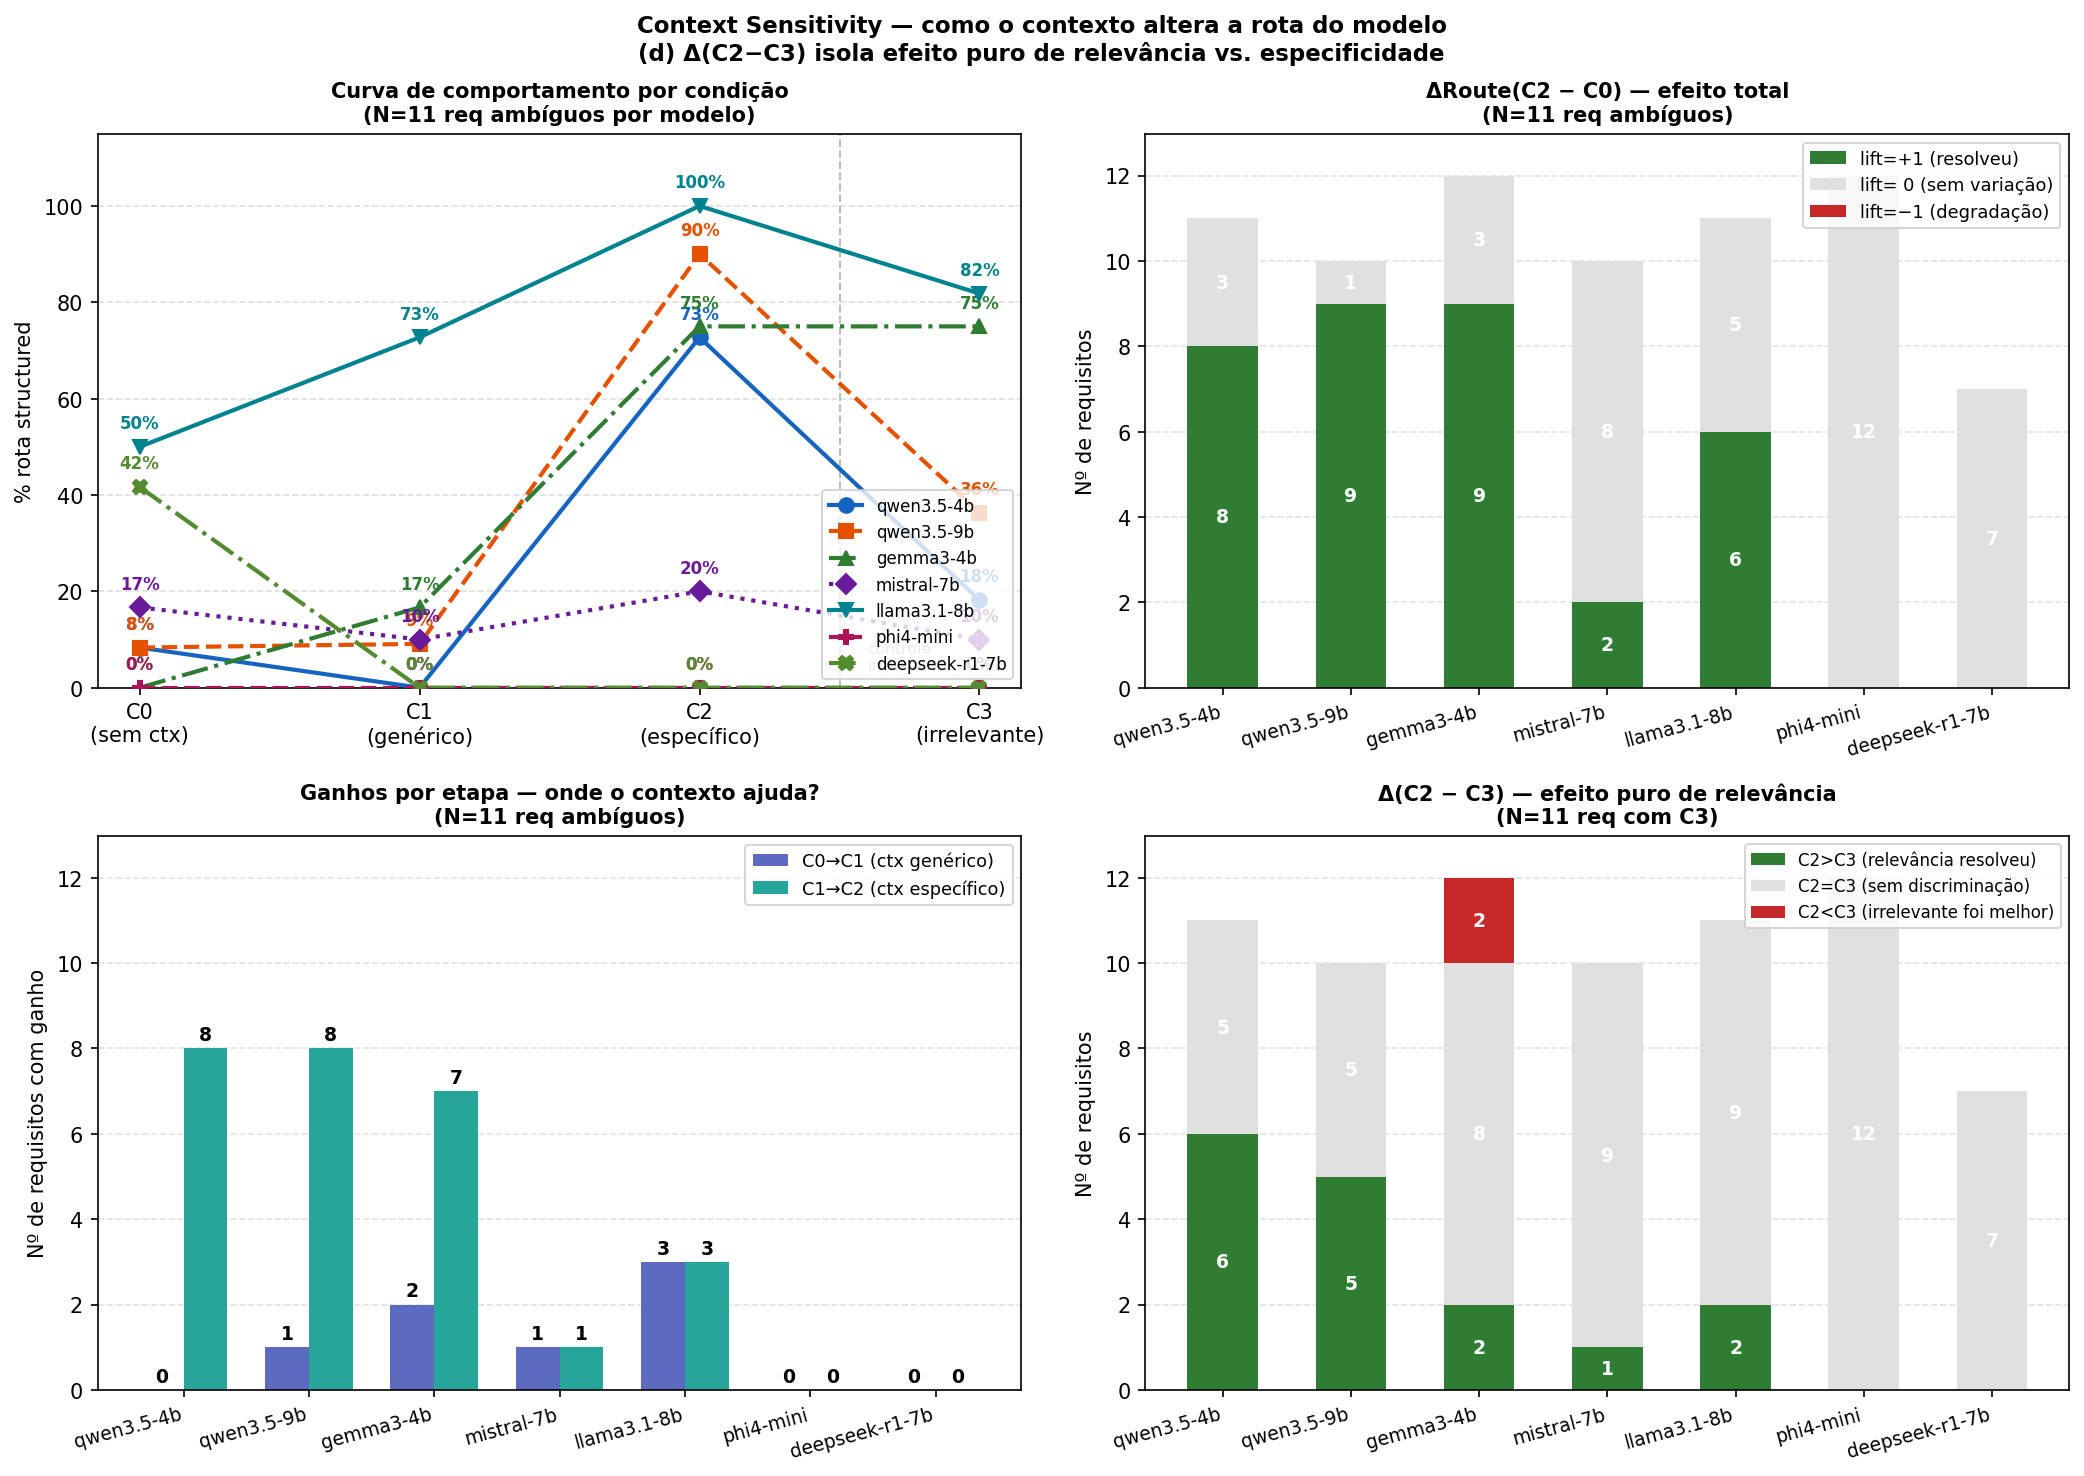
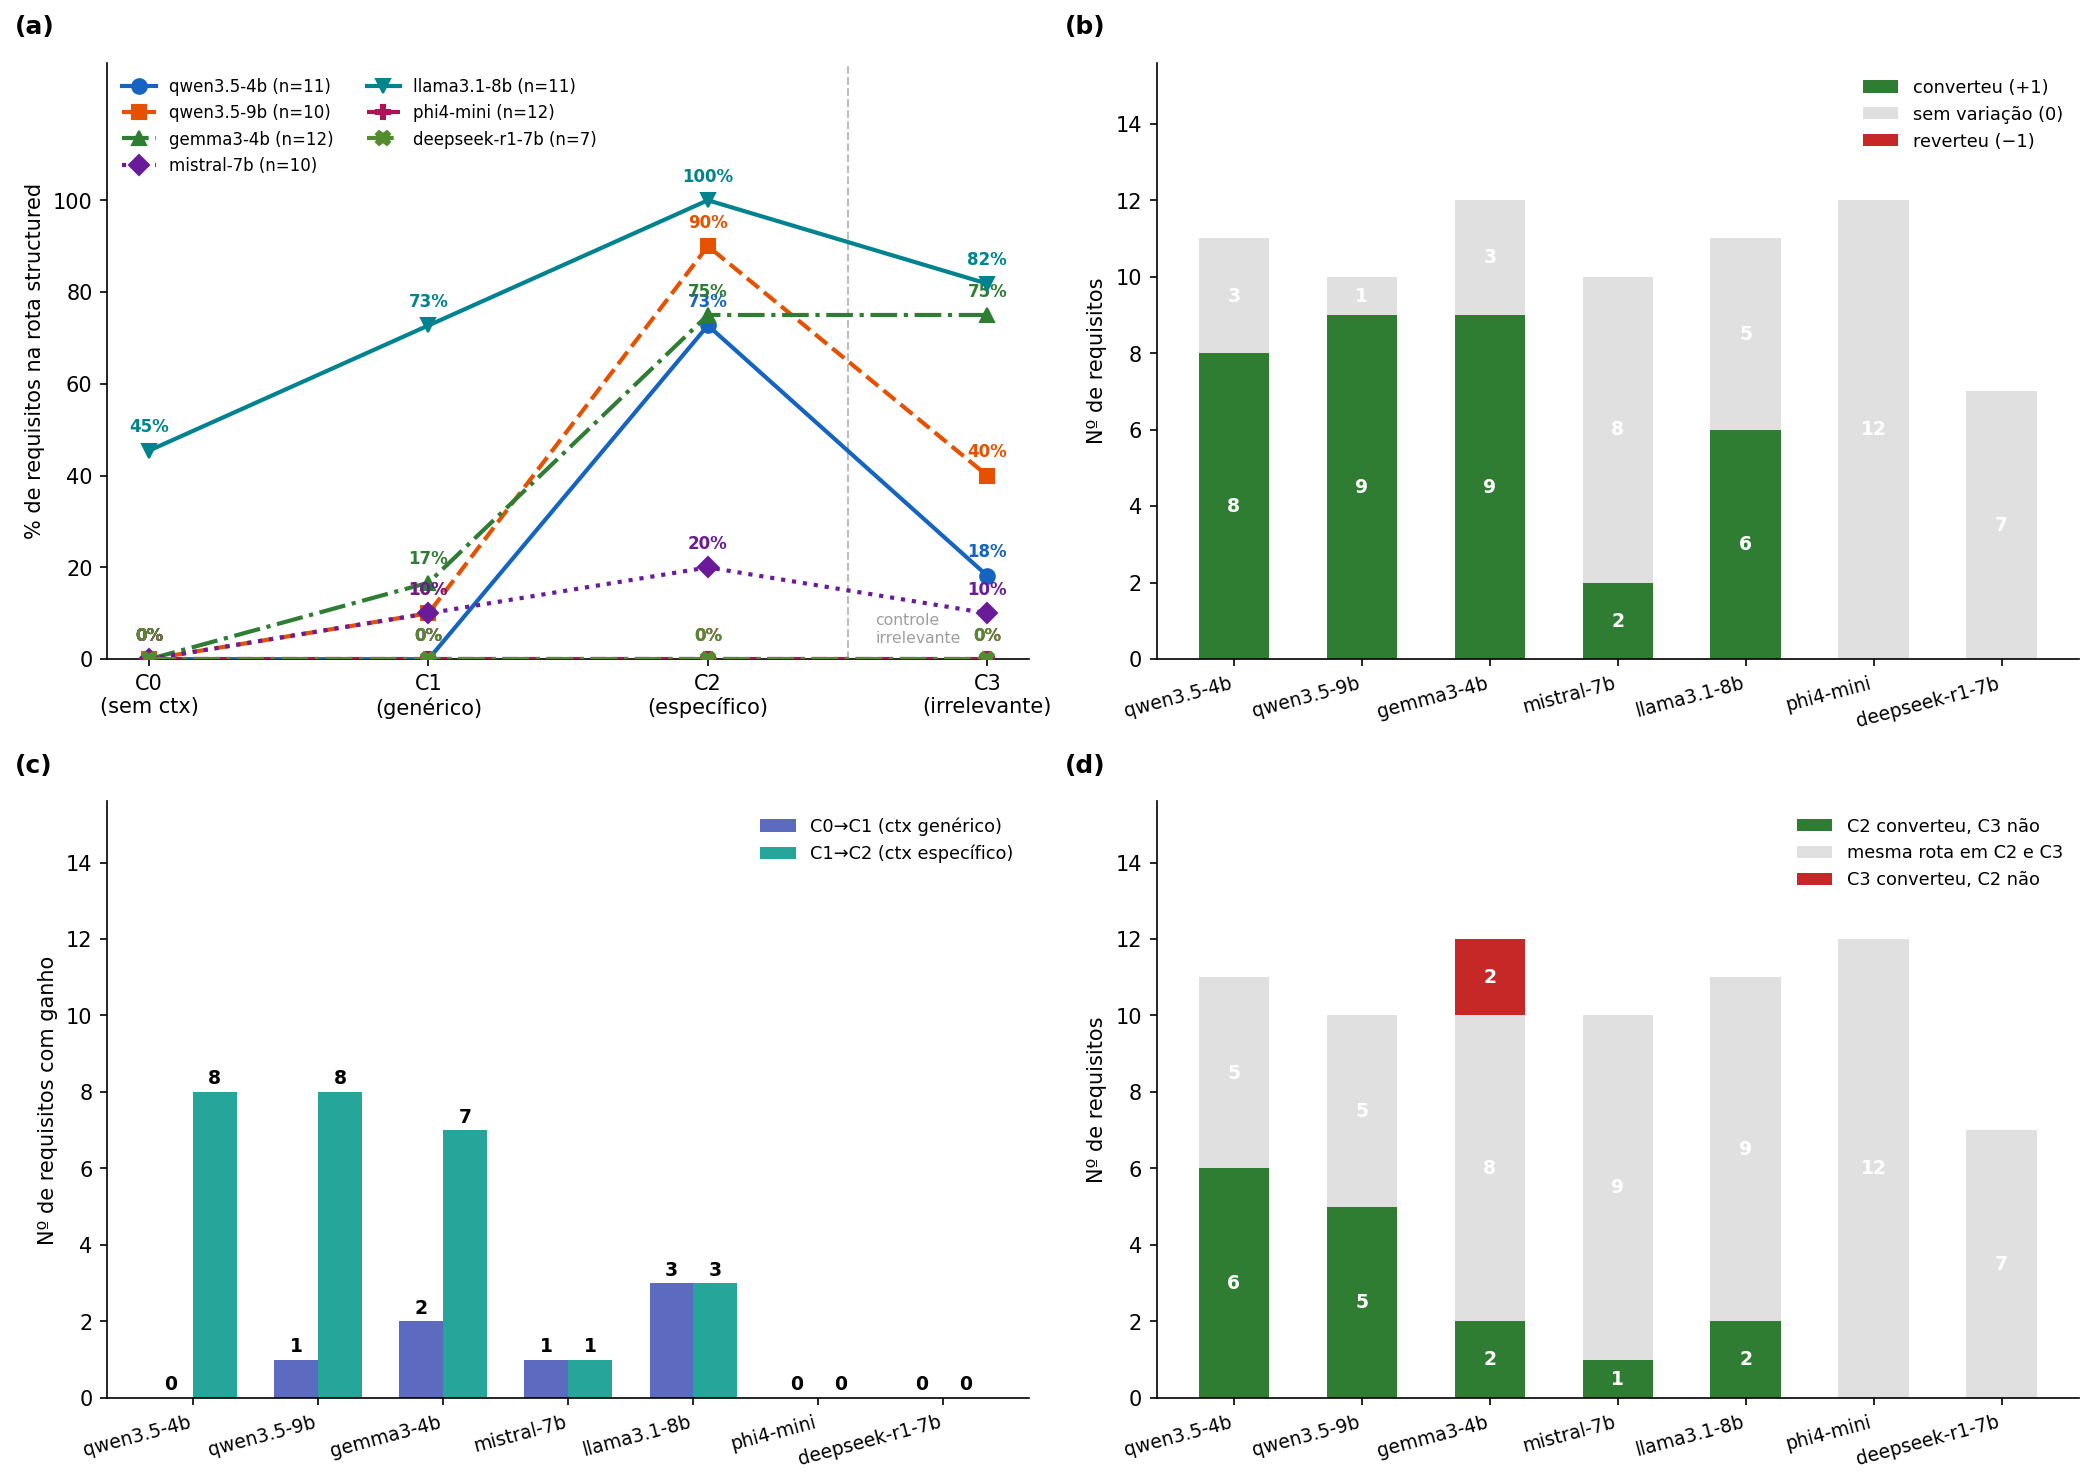
Corrige a base da Figura 3 e remove títulos internos e grade das Figuras 2 a 4
O painel (a) de context_lift__route_delta usava evaluation_results.csv,
de modo que os falsos negativos de C0 entravam como rota structured e
C1 a C3 só tinham requisitos detectados. Passa a usar context_lift.csv,
a mesma base da Tabela 2, com o n de cada modelo na legenda.

As três figuras perdem o título interno; a Figura 3 perde a grade e as
bordas superior e direita, ganha rótulos (a) a (d) e legendas que não
sugerem correção da resolução; a Figura 4 passa a rotular os tipos em
português. chart_context_lift deixa de receber df.

diff --git a/Orchestrator/analysis/generate_charts.py b/Orchestrator/analysis/generate_charts.py
@@ -521,11 +521,17 @@ def _stacked_lift(ax, x, width, pos, zero, neg, label_pos, label_zero, label_neg
                     str(val), ha='center', va='center', fontsize=9,
                     color='white', fontweight='bold')
     ax.set_ylim(0, y_max)
-    ax.yaxis.grid(True, linestyle='--', alpha=0.35)
     ax.set_axisbelow(True)
 
 
-def chart_context_lift(df: pd.DataFrame, df_lift: pd.DataFrame, out_dir: Path):
+def _open_axes(ax, letter: str):
+    """Sem grade nem borda superior/direita; rótulo (a)–(d) no lugar do título."""
+    ax.spines[['top', 'right']].set_visible(False)
+    ax.text(-0.10, 1.04, letter, transform=ax.transAxes,
+            fontsize=12, fontweight='bold', va='bottom')
+
+
+def chart_context_lift(df_lift: pd.DataFrame, out_dir: Path):
     """Layout 2×2 — Context Sensitivity (apenas req com expected_has_ambiguity=True).
 
       (a) top-left  — Line chart: % structured por condição C0→C1→C2→C3
@@ -534,7 +540,9 @@ def chart_context_lift(df: pd.DataFrame, df_lift: pd.DataFrame, out_dir: Path):
       (d) bot-right — Delta_c2_c3: efeito puro de relevância (quando C3 presente)
 
     Narrativa: curva geral (a) → efeito agregado (b) → onde acontece (c) → é legítimo? (d)
-    Escala Y compartilhada entre (b), (c) e (d) = N req ambíguos.
+    Todos os painéis usam a mesma base da Tabela 2: os requisitos de Cat-01 a Cat-04
+    detectados em C0 (linhas de context_lift.csv), sem os falsos negativos, que não
+    são executados em C1–C3. O n de cada modelo aparece na legenda de (a).
     """
     df_amb = df_lift[df_lift['expected_has_ambiguity'].astype(str) == 'True'].copy()
 
@@ -544,8 +552,8 @@ def chart_context_lift(df: pd.DataFrame, df_lift: pd.DataFrame, out_dir: Path):
 
     runs   = sorted(df_lift['run'].unique())
     lbls   = _model_labels(runs)
-    n      = len(df_amb[df_amb['run'] == runs[0]])
-    y_max  = n * 1.18
+    n_run  = {r: len(df_amb[df_amb['run'] == r]) for r in runs}
+    y_max  = max(n_run.values()) * 1.3
     has_c3 = 'lift_c3_c0' in df_amb.columns and df_amb['lift_c3_c0'].notna().any()
 
     fig, axes = plt.subplots(2, 2, figsize=(14, 10))
@@ -556,20 +564,16 @@ def chart_context_lift(df: pd.DataFrame, df_lift: pd.DataFrame, out_dir: Path):
     width = 0.55
 
     # ── (a) Line chart — % structured nos req ambíguos por condição ──────────
-    df_amb_full = df[df['expected_has_ambiguity'].astype(str) == 'True'].copy() \
-        if 'expected_has_ambiguity' in df.columns else pd.DataFrame()
-
-    ctxs       = [c for c in CTX_ORDER if c in df_amb_full['context'].values] \
-        if not df_amb_full.empty else ['C0', 'C1', 'C2']
+    ctxs       = [c for c in CTX_ORDER if f'structured_{c.lower()}' in df_amb.columns]
     ctx_labels = {'C0': 'C0\n(sem ctx)', 'C1': 'C1\n(genérico)',
                   'C2': 'C2\n(específico)', 'C3': 'C3\n(irrelevante)'}
     x_labels   = [ctx_labels.get(c, c) for c in ctxs]
 
     for run, color, ls, mk in zip(runs, MODEL_PALETTE, MODEL_LINES, MODEL_MARKERS):
-        sub  = df_amb_full[df_amb_full['run'] == run] if not df_amb_full.empty else pd.DataFrame()
-        vals = [_pct(sub[sub['context'] == ctx]['route_structured']) for ctx in ctxs]
+        sub  = df_amb[df_amb['run'] == run]
+        vals = [_pct(sub[f'structured_{ctx.lower()}']) for ctx in ctxs]
         ax_line.plot(x_labels, vals, linestyle=ls, marker=mk, linewidth=2, color=color,
-                     label=lbls[run], markersize=7, zorder=3)
+                     label=f'{lbls[run]} (n={n_run[run]})', markersize=7, zorder=3)
         for xlbl, val in zip(x_labels, vals):
             if not math.isnan(val):
                 ax_line.annotate(f'{val:.0f}%', (xlbl, val),
@@ -580,15 +584,12 @@ def chart_context_lift(df: pd.DataFrame, df_lift: pd.DataFrame, out_dir: Path):
         ax_line.axvline(x=2.5, color='#bdbdbd', linewidth=1, linestyle='--', zorder=1)
         ax_line.text(2.6, 3, 'controle\nirrelevante', fontsize=7.5, color='#9e9e9e', va='bottom')
 
-    ax_line.set_ylim(0, 115)
-    ax_line.yaxis.grid(True, linestyle='--', alpha=0.4)
-    ax_line.set_axisbelow(True)
-    ax_line.set_ylabel('% rota structured', fontsize=10)
-    ax_line.set_title(f'Curva de comportamento por condição\n(N={n} req ambíguos por modelo)',
-                      fontsize=10, fontweight='bold')
+    ax_line.set_ylim(0, 130)
+    ax_line.set_yticks(range(0, 101, 20))
+    ax_line.set_ylabel('% de requisitos na rota structured', fontsize=10)
     handles, labels = ax_line.get_legend_handles_labels()
-    ax_line.legend(handles, labels, fontsize=8, loc='lower right',
-                   ncol=max(1, len(runs) // 4))
+    ax_line.legend(handles, labels, fontsize=8, loc='upper left', ncol=2, frameon=False)
+    _open_axes(ax_line, '(a)')
 
     # ── (b) Stacked bar — ΔRoute(C2−C0) ─────────────────────────────────────
     lift_pos  = [len(df_amb[(df_amb['run'] == r) & (df_amb['lift_c2_c0'] == 1)])  for r in runs]
@@ -596,13 +597,12 @@ def chart_context_lift(df: pd.DataFrame, df_lift: pd.DataFrame, out_dir: Path):
     lift_neg  = [len(df_amb[(df_amb['run'] == r) & (df_amb['lift_c2_c0'] == -1)]) for r in runs]
 
     _stacked_lift(ax_lift, x, width, lift_pos, lift_zero, lift_neg,
-                  'lift=+1 (resolveu)', 'lift= 0 (sem variação)', 'lift=−1 (degradação)', y_max)
-    ax_lift.set_title(f'ΔRoute(C2 − C0) — efeito total\n(N={n} req ambíguos)',
-                      fontsize=10, fontweight='bold')
+                  'converteu (+1)', 'sem variação (0)', 'reverteu (−1)', y_max)
+    _open_axes(ax_lift, '(b)')
     ax_lift.set_xticks(x)
     ax_lift.set_xticklabels([lbls[r] for r in runs], fontsize=9, rotation=15, ha='right')
     ax_lift.set_ylabel('Nº de requisitos', fontsize=10)
-    ax_lift.legend(fontsize=8.5, loc='upper right')
+    ax_lift.legend(fontsize=8.5, loc='upper right', frameon=False)
 
     # ── (c) Delta bars — ganhos por etapa ────────────────────────────────────
     width_s  = 0.35
@@ -628,46 +628,35 @@ def chart_context_lift(df: pd.DataFrame, df_lift: pd.DataFrame, out_dir: Path):
             ax_stage.text(x[i] + width_s / 2, -0.3, f'−{l12}',
                           ha='center', va='top', fontsize=8, color=LIFT_NEG_COLOR)
 
-    ax_stage.set_title(f'Ganhos por etapa — onde o contexto ajuda?\n(N={n} req ambíguos)',
-                       fontsize=10, fontweight='bold')
+    _open_axes(ax_stage, '(c)')
     ax_stage.set_xticks(x)
     ax_stage.set_xticklabels([lbls[r] for r in runs], fontsize=9, rotation=15, ha='right')
     ax_stage.set_ylabel('Nº de requisitos com ganho', fontsize=10)
     ax_stage.set_ylim(0, y_max)
-    ax_stage.yaxis.grid(True, linestyle='--', alpha=0.35)
     ax_stage.set_axisbelow(True)
-    ax_stage.legend(fontsize=8.5, loc='upper right')
+    ax_stage.legend(fontsize=8.5, loc='upper right', frameon=False)
 
     # ── (d) Delta_c2_c3 — efeito puro de relevância ──────────────────────────
     if has_c3:
         df_c3   = df_amb[df_amb['lift_c3_c0'].notna()]
         runs_c3 = [r for r in runs if len(df_c3[df_c3['run'] == r]) > 0]
         x_c3    = np.arange(len(runs_c3))
-        n_c3    = len(df_c3[df_c3['run'] == runs_c3[0]]) if runs_c3 else n
 
         rel_disc = [len(df_c3[(df_c3['run'] == r) & (df_c3['delta_c2_c3'] == 1)]) for r in runs_c3]
         rel_zero = [len(df_c3[(df_c3['run'] == r) & (df_c3['delta_c2_c3'] == 0)]) for r in runs_c3]
         rel_neg  = [len(df_c3[(df_c3['run'] == r) & (df_c3['delta_c2_c3'] == -1)]) for r in runs_c3]
 
         _stacked_lift(ax_rel, x_c3, width, rel_disc, rel_zero, rel_neg,
-                      'C2>C3 (relevância resolveu)', 'C2=C3 (sem discriminação)',
-                      'C2<C3 (irrelevante foi melhor)', y_max)
-        ax_rel.set_title(f'Δ(C2 − C3) — efeito puro de relevância\n(N={n_c3} req com C3)',
-                         fontsize=10, fontweight='bold')
+                      'C2 converteu, C3 não', 'mesma rota em C2 e C3',
+                      'C3 converteu, C2 não', y_max)
+        _open_axes(ax_rel, '(d)')
         ax_rel.set_xticks(x_c3)
         ax_rel.set_xticklabels([lbls[r] for r in runs_c3], fontsize=9, rotation=15, ha='right')
         ax_rel.set_ylabel('Nº de requisitos', fontsize=10)
-        ax_rel.legend(fontsize=8, loc='upper right')
+        ax_rel.legend(fontsize=8.5, loc='upper right', frameon=False)
     else:
         ax_rel.set_visible(False)
 
-    subtitle = ('(d) Δ(C2−C3) isola efeito puro de relevância vs. especificidade'
-                if has_c3 else '')
-    fig.suptitle(
-        'Context Sensitivity — como o contexto altera a rota do modelo\n'
-        + subtitle,
-        fontsize=11, fontweight='bold',
-    )
     plt.tight_layout()
     out_path = out_dir / 'context_lift__route_delta.png'
     fig.savefig(out_path, dpi=150, bbox_inches='tight')
@@ -733,11 +722,6 @@ def chart_heatmap(df: pd.DataFrame, out_dir: Path):
               mpatches.Patch(color=NA_COLOR,    label='N/A')]
     fig.legend(handles=legend, loc='lower center', ncol=3, fontsize=9,
                bbox_to_anchor=(0.5, -0.04))
-    fig.suptitle(
-        'D1 — Detecção de ambiguidade: req × modelo (C0 only)\n'
-        '(+) = positivo esperado  ·  (−) = negativo esperado (controle)',
-        fontsize=10, fontweight='bold',
-    )
     plt.tight_layout()
     out_path = out_dir / 'heatmap__D1_req_modelo.png'
     fig.savefig(out_path, dpi=150, bbox_inches='tight')
@@ -746,6 +730,9 @@ def chart_heatmap(df: pd.DataFrame, out_dir: Path):
 
 
 # ── DIAGNÓSTICO: Chart 7 — taxonomia de Pohl (Agente 1a) ─────────────────────
+
+_TAX_TYPE_PT = {'lexical': 'lexical', 'syntactic': 'sintático', 'semantic': 'semântico',
+                'referential': 'referencial', 'vagueness': 'vaguidade'}
 
 _TAX_EXACT_COLOR = '#2e7d32'    # verde  — todos os aceitos presentes, sem extras
 _TAX_OVER_COLOR  = '#f9a825'    # amarelo — aceito presente, mas há tipos extras
@@ -946,19 +933,14 @@ def chart_taxonomy_model_heatmap(df: pd.DataFrame, out_dir: Path):
                         fontweight='bold' if val > 0 else 'normal')
 
     ax.set_xticks(range(n_types))
-    ax.set_xticklabels(true_types, fontsize=10)
+    ax.set_xticklabels([_TAX_TYPE_PT.get(t, t) for t in true_types], fontsize=10)
     ax.set_yticks(range(n_runs))
     ax.set_yticklabels([lbls[r] for r in runs], fontsize=10)
-    ax.set_xlabel('Tipo Pohl (ground truth)', fontsize=11, labelpad=8)
+    ax.set_xlabel('Tipo de ambiguidade (taxonomia de Pohl)', fontsize=11, labelpad=8)
     ax.set_ylabel('Modelo', fontsize=11, labelpad=8)
 
     plt.colorbar(im, ax=ax, shrink=0.80, pad=0.02, label='% de acerto')
 
-    ax.set_title(
-        'Acurácia por tipo Pohl × modelo — Agente 1a\n'
-        'Padrão uniforme → problema de prompt  ·  Heterogêneo → capacidade diferente por modelo',
-        fontsize=10, fontweight='bold',
-    )
     plt.tight_layout()
     out_path = out_dir / 'taxonomy_model_heatmap.png'
     fig.savefig(out_path, dpi=150, bbox_inches='tight')
@@ -1244,7 +1226,7 @@ def main():
         df_lift = pd.read_csv(lift_path)
         if args.run:
             df_lift = df_lift[df_lift['run'].str.startswith(args.run)]
-        chart_context_lift(df, df_lift, out_dir)
+        chart_context_lift(df_lift, out_dir)
     else:
         print(f'  [WARN] context_lift.csv não encontrado — rode evaluate.py primeiro')
 

diff --git a/Orchestrator/analysis/evaluate.py b/Orchestrator/analysis/evaluate.py
@@ -845,7 +845,7 @@ def main():
         gc.chart_heatmap(df, charts_dir)
         # Bloco 2 — Sensibilidade ao contexto
         df_lift = pd.read_csv(eval_dir / 'context_lift.csv')
-        gc.chart_context_lift(df, df_lift, charts_dir)
+        gc.chart_context_lift(df_lift, charts_dir)
         # Bloco 3 — Taxonomia Pohl
         tax_csv = eval_dir / 'taxonomy_classification.csv'
         if tax_csv.exists():
